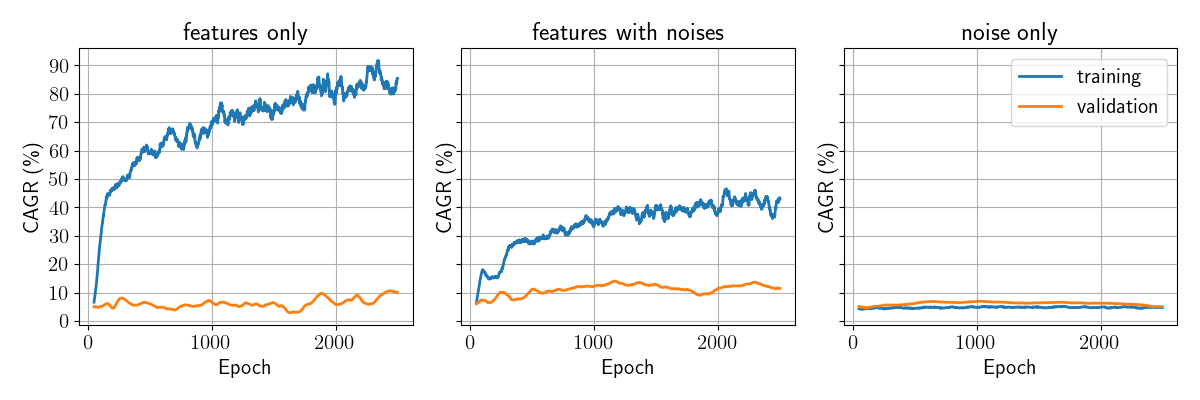
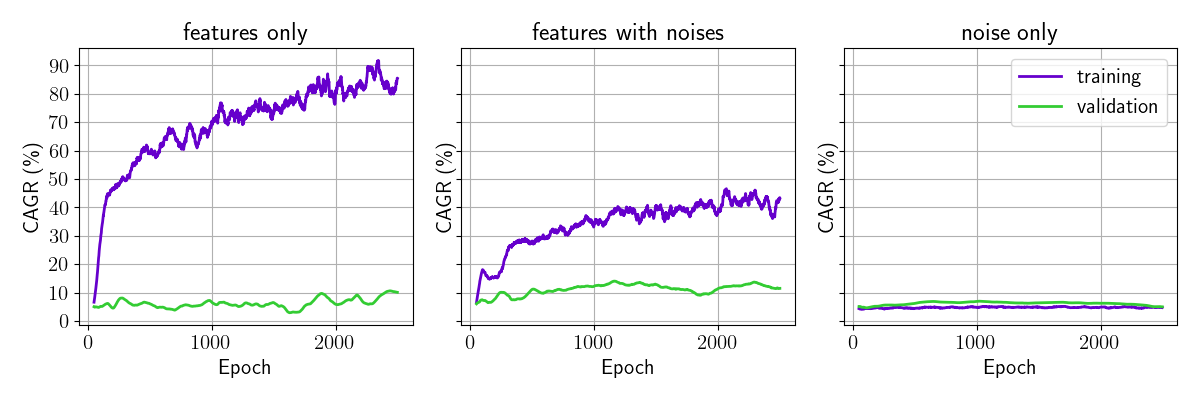
update images

diff --git a/generate_graphs.py b/generate_graphs.py
@@ -51,7 +51,7 @@ def generate_penalty_negtive_profits_compare_graph(subfix=''):
         (r"$\theta$ = 0.002, penalty upon negtive profits only",
          "./data/analysis/drop/drop_only/0.002_drop_only_train_out_20210508_132328"),
         (r"$\theta$ = 0.002, penalty upon all profits",
-         "./data/analysis/drop/0.002_train_out_20210508_183303"),
+         "./data/analysis/drop/0.002_train_out_20210511_073123"),
         (r"$\theta$ = 0.006, penalty upon negtive profits only",
          "./data/analysis/drop/drop_only/0.006_drop_only_train_out_20210507_182555"),
         (r"$\theta$ = 0.006, penalty upon all profits",
@@ -124,10 +124,10 @@ def generate_compare_crp(subfix=''):
     plt.clf()
 
 if __name__ == '__main__':
-    #set_matplotlib_style(mode='slide')
-    # generate_noise_compare_graph('_slide')
-    #generate_penalty_negtive_profits_compare_graph('_slide')
+    set_matplotlib_style(mode='slide')
+    generate_noise_compare_graph('_slide')
+    generate_penalty_negtive_profits_compare_graph('_slide')
     set_matplotlib_style()
     generate_compare_crp()
-    # generate_noise_compare_graph()
-    # generate_penalty_negtive_profits_compare_graph()
+    generate_noise_compare_graph()
+    generate_penalty_negtive_profits_compare_graph()

diff --git a/common/matplotlib_extend.py b/common/matplotlib_extend.py
@@ -6,7 +6,7 @@ def set_matplotlib_style(mode=None):
     matplotlib.rcParams.update({'font.size': 15})
     matplotlib.rcParams['lines.linewidth'] = 2
     matplotlib.rcParams["text.usetex"] = True
-
+    matplotlib.rcParams['axes.prop_cycle']=  cycler(color= ['#6600CC','#33CC33'])
     if(mode=='slide'):
         matplotlib.rcParams['axes.prop_cycle']=  cycler(color= ['#66FF99','#FFCC99','#FFFF99','#FF99FF'])
         for name in matplotlib.rcParams:
@@ -17,6 +17,7 @@ def set_matplotlib_style(mode=None):
 
 def plot_ma(series,lables,title,n):
     fig, ax = matplotlib.pyplot.subplots()
+    
     for s,label in zip(series,lables):
         x=range(len(s))
         y_std = s.rolling(n).std()   
